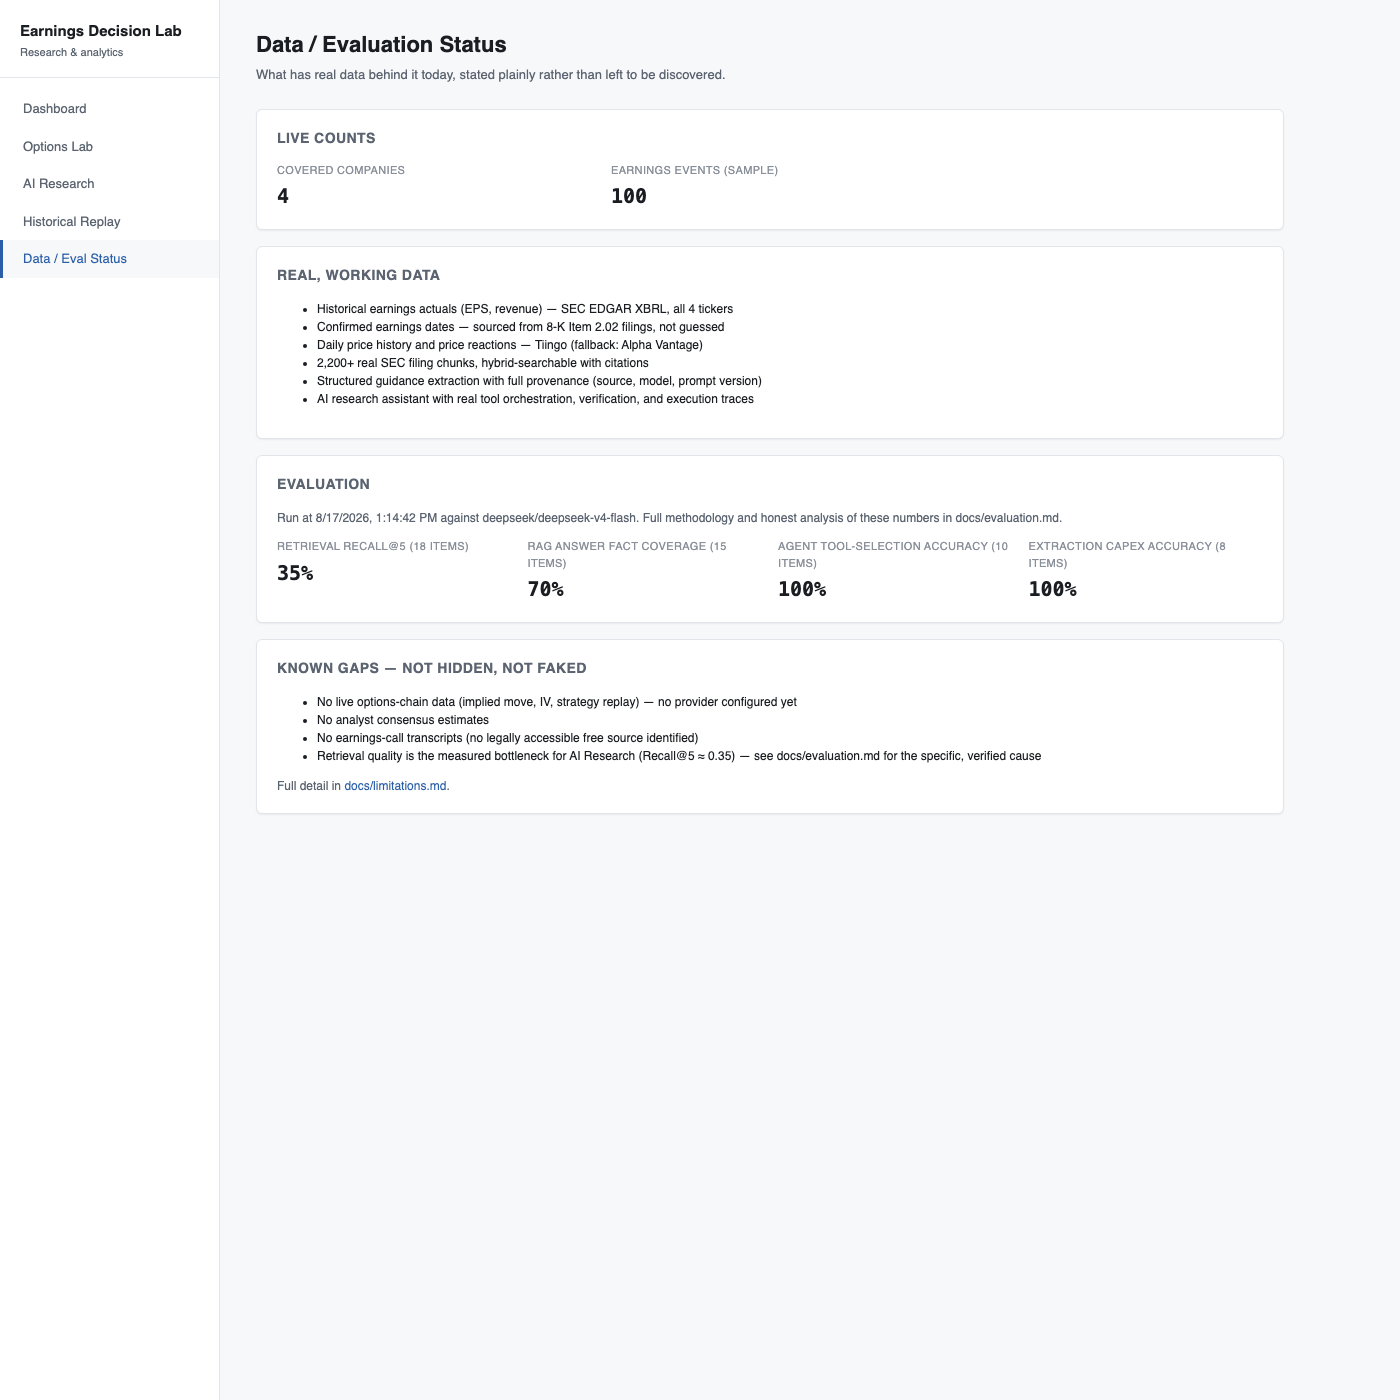
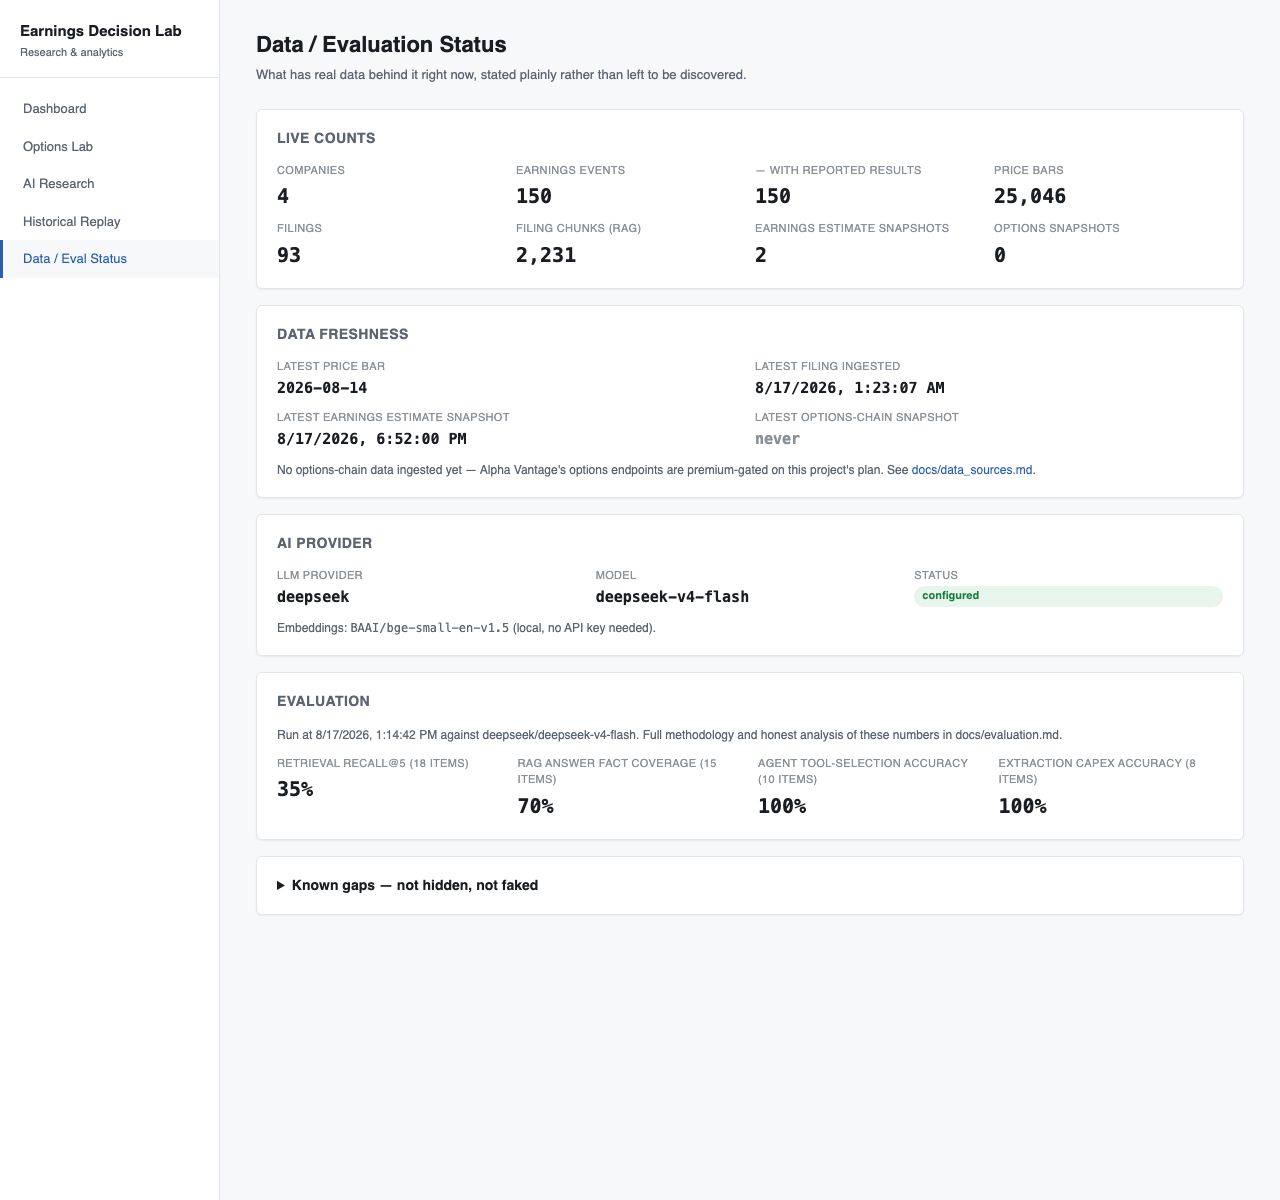
fix: two real bugs found by live Alpha Vantage verification
Live-verified EARNINGS_ESTIMATES/EARNINGS_CALENDAR for all 4 covered
tickers, which surfaced two real bugs no mocked test had caught:

1. The two Alpha Vantage calls collect_next_earnings_estimate makes always
   fire back-to-back and tripped AV's real per-second burst limit (a 200 OK
   "please spread out your requests" body, not a retryable 429). Fixed with
   a short pause between them; a new autouse conftest fixture keeps the
   test suite from actually waiting on it.
2. For a company whose next report is its fiscal Q4/year-end, Alpha
   Vantage returns two real entries sharing the same fiscal_period_end_date
   (one horizon="fiscal quarter", one "fiscal year") -- observed live for
   Micron. Matching by date alone picked whichever the API listed first,
   which silently substituted the annual consensus (EPS ~73) for the
   quarterly one (~31) this project represents as "next report". Fixed to
   prefer an exact quarter-horizon match; the Earnings Event page now also
   labels which horizon a figure is for, so a future edge case like this
   is visible rather than silently misleading.

Also updates real screenshots (Earnings Event, Historical Replay, Data/Eval
Status) captured against the live-verified Docker Compose stack, and notes
a real data-quality observation in Alpha Vantage's own MU forward estimates
(implausibly high relative to its own recent-quarter figures in the same
response) in docs/data_sources.md.

diff --git a/frontend/src/pages/EarningsEvent.tsx b/frontend/src/pages/EarningsEvent.tsx
@@ -109,7 +109,7 @@ export function EarningsEvent() {
             <>
               <div className="grid grid-2" style={{ gap: 10 }}>
                 <div className="stat">
-                  <span className="stat-label">EPS estimate (avg)</span>
+                  <span className="stat-label">EPS estimate (avg, {est.horizon})</span>
                   <span className="stat-value small">{formatMoney(est.eps_estimate_average)}</span>
                 </div>
                 <div className="stat">
@@ -121,7 +121,7 @@ export function EarningsEvent() {
                   <span className="stat-value small">{est.eps_estimate_analyst_count ?? "—"}</span>
                 </div>
                 <div className="stat">
-                  <span className="stat-label">Revenue estimate (avg)</span>
+                  <span className="stat-label">Revenue estimate (avg, {est.horizon})</span>
                   <span className="stat-value small">
                     {est.revenue_estimate_average
                       ? `$${(Number(est.revenue_estimate_average) / 1e9).toFixed(2)}B`
@@ -130,6 +130,8 @@ export function EarningsEvent() {
                 </div>
               </div>
               <p className="text-sm text-muted" style={{ marginTop: 10, marginBottom: 0 }}>
+                Figures above are for Alpha Vantage's "{est.horizon}" consensus specifically —
+                not necessarily a single quarter's worth if this is a fiscal year-end period.
                 Estimated report date: {est.estimated_report_date ?? "unknown"} · consensus as of{" "}
                 {new Date(est.snapshot_timestamp).toLocaleDateString()} ({est.source_provider}).
               </p>

diff --git a/backend/src/services/market_expectations.py b/backend/src/services/market_expectations.py
@@ -5,6 +5,7 @@ end date rather than a (fiscal_year, fiscal_quarter) pair, and
 docs/engineering_decisions.md (Phase 12) for the full design rationale.
 """
 
+import time
 from datetime import UTC, datetime
 
 from sqlalchemy.orm import Session
@@ -16,6 +17,31 @@ from analytics.earnings.estimate_revisions import (
 from models.company import Company
 from models.earnings_estimate_snapshot import EarningsEstimateSnapshot
 from providers.base import EarningsEstimatesProvider
+from providers.types import EarningsEstimatePeriod, UpcomingEarningsCalendarEntry
+
+
+def _select_matching_period(
+    all_periods: list[EarningsEstimatePeriod],
+    calendar_entry: UpcomingEarningsCalendarEntry,
+) -> EarningsEstimatePeriod | None:
+    """When a company's next reporting period is its fiscal Q4/year-end,
+    Alpha Vantage returns *two* real entries with the same
+    fiscal_period_end_date -- one horizon="fiscal quarter", one
+    horizon="fiscal year" (observed live: Micron's real EARNINGS_ESTIMATES
+    response for FY2026 Q4/FYE, both dated 2026-08-31). Blindly taking the
+    first match by date alone is order-dependent on Alpha Vantage's own
+    array ordering and can silently substitute the *annual* consensus for
+    what this project represents as "next quarterly report" -- a real bug
+    caught by live verification, not a hypothetical. This prefers an exact
+    "quarter" horizon match at that date, falling back to any horizon match
+    (still real data, honestly labeled via the persisted ``horizon`` field)
+    only when no quarterly entry exists for that exact date at all.
+    """
+    same_date = [
+        p for p in all_periods if p.fiscal_period_end_date == calendar_entry.fiscal_period_end_date
+    ]
+    quarterly = next((p for p in same_date if "quarter" in p.horizon.lower()), None)
+    return quarterly or (same_date[0] if same_date else None)
 
 
 def collect_next_earnings_estimate(
@@ -36,15 +62,14 @@ def collect_next_earnings_estimate(
     if calendar_entry is None:
         return None
 
+    # Alpha Vantage's free tier enforces a real per-second burst limit
+    # (observed live: two calls fired back-to-back return a 200 OK "please
+    # spread out your requests" body, not a retryable 429) on top of its
+    # daily cap -- this pause is what keeps these two calls, which always
+    # fire together for one ticker, from tripping it.
+    time.sleep(1.5)
     all_periods = provider.get_earnings_estimates(company.ticker)
-    matching = next(
-        (
-            p
-            for p in all_periods
-            if p.fiscal_period_end_date == calendar_entry.fiscal_period_end_date
-        ),
-        None,
-    )
+    matching = _select_matching_period(all_periods, calendar_entry)
 
     previous = (
         db.query(EarningsEstimateSnapshot)

diff --git a/backend/tests/test_services_market_expectations.py b/backend/tests/test_services_market_expectations.py
@@ -112,6 +112,50 @@ class TestCollectNextEarningsEstimate:
         assert row.eps_estimate_average is None
         assert row.horizon == "unknown"
 
+    def test_prefers_fiscal_quarter_over_fiscal_year_at_same_period_end_date(self, db_session):
+        """Real bug, caught live: a company's fiscal Q4/year-end period has
+        the *same* fiscal_period_end_date for both its "fiscal quarter" and
+        "fiscal year" consensus entries (observed for Micron's real
+        EARNINGS_ESTIMATES response). Taking whichever the provider lists
+        first would silently substitute the annual figure for what this
+        project represents as the next quarterly report's consensus.
+        """
+        company = _seed_company(db_session)
+        period_end = date(2026, 8, 31)
+        provider = _StubEstimatesProvider(
+            calendar_entry=_calendar_entry(period_end, date(2026, 9, 22)),
+            periods=[
+                _period(period_end, horizon="fiscal year", eps_estimate_average=Decimal("73.39")),
+                _period(
+                    period_end, horizon="fiscal quarter", eps_estimate_average=Decimal("31.30")
+                ),
+            ],
+        )
+
+        row = collect_next_earnings_estimate(db_session, provider, company)
+
+        assert row is not None
+        assert row.horizon == "fiscal quarter"
+        assert row.eps_estimate_average == Decimal("31.30")
+
+    def test_falls_back_to_annual_entry_when_no_quarterly_entry_exists_at_that_date(
+        self, db_session
+    ):
+        company = _seed_company(db_session)
+        period_end = date(2026, 8, 31)
+        provider = _StubEstimatesProvider(
+            calendar_entry=_calendar_entry(period_end, date(2026, 9, 22)),
+            periods=[
+                _period(period_end, horizon="fiscal year", eps_estimate_average=Decimal("73.39"))
+            ],
+        )
+
+        row = collect_next_earnings_estimate(db_session, provider, company)
+
+        assert row is not None
+        assert row.horizon == "fiscal year"
+        assert row.eps_estimate_average == Decimal("73.39")
+
     def test_second_snapshot_derives_real_revenue_revision_direction(self, db_session):
         company = _seed_company(db_session)
         period_end = date(2026, 11, 30)

diff --git a/backend/tests/conftest.py b/backend/tests/conftest.py
@@ -1,9 +1,20 @@
+import time
 from collections.abc import Generator
 
 import pytest
 from sqlalchemy.orm import Session
 
 from db.session import engine
+
+
+@pytest.fixture(autouse=True)
+def _no_real_sleeps(monkeypatch: pytest.MonkeyPatch) -> None:
+    """A handful of ingestion-adjacent functions call time.sleep to pace
+    real Alpha Vantage API requests (see services/market_expectations.py) --
+    no test should ever wait on a real clock for that, so this keeps the
+    whole suite fast and deterministic regardless of which module adds one.
+    """
+    monkeypatch.setattr(time, "sleep", lambda _seconds: None)
 
 
 @pytest.fixture

diff --git a/docs/data_sources.md b/docs/data_sources.md
@@ -73,7 +73,17 @@ SEC-EDGAR-only pieces (actuals, 8-K-sourced earnings dates) were never affected 
   above — both endpoints count against the same daily quota.
 - **Status:** live and wired up. See [engineering_decisions.md](engineering_decisions.md)
   (Phase 12) for why `EarningsEstimateSnapshot` is keyed by `fiscal_period_end_date` rather
-  than `(fiscal_year, fiscal_quarter)`.
+  than `(fiscal_year, fiscal_quarter)`, and for a real matching bug (fiscal quarter vs. fiscal
+  year sharing one period-end date) caught during Phase 12 live verification.
+- **Data-quality caveat, observed live:** Micron's (MU) real `EARNINGS_ESTIMATES` response as of
+  2026-08-17 has forward (2026+) consensus EPS/revenue figures far above its own recent
+  historical range in the same response (e.g. "fiscal quarter" EPS jumping from ~$2-4 in
+  2025 quarters to $31+ from Q1 FY2026 onward; "fiscal year" EPS of $73-155). This is Alpha
+  Vantage's own third-party consensus data, faithfully parsed and stored as-is (not a parsing
+  bug in this project) — treat MU's specific forward estimates with real skepticism until
+  cross-checked against another source, rather than assuming this project's numbers are wrong.
+  NVDA's real forward estimate (EPS ~$2.08 for the quarter ending 2026-07-31) looked plausible
+  by comparison.
 
 ### Alpha Vantage — options chain (`backend/src/providers/alpha_vantage_options.py`, Phase 12)
 
